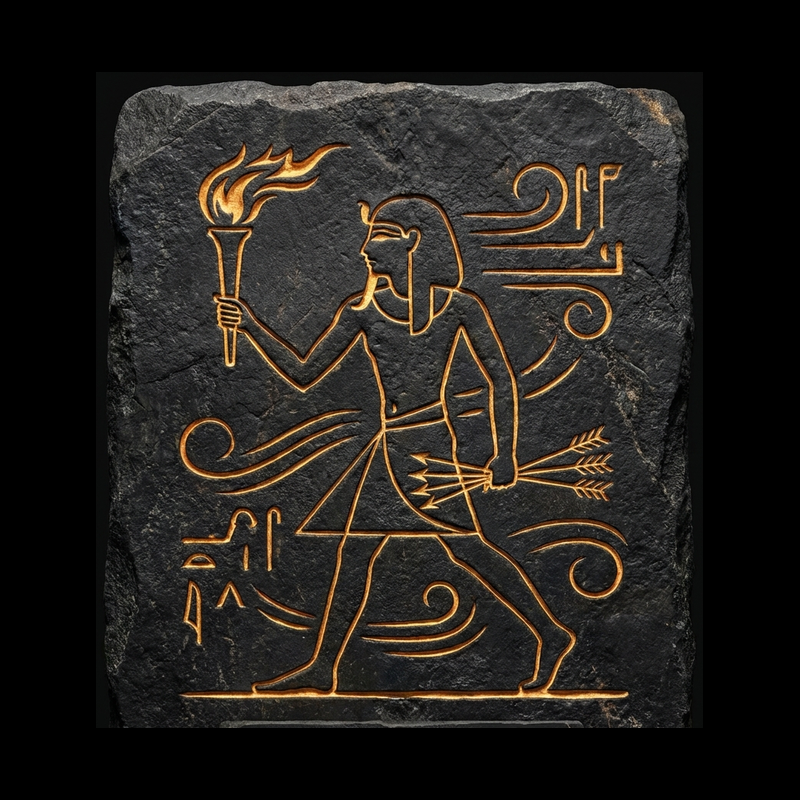
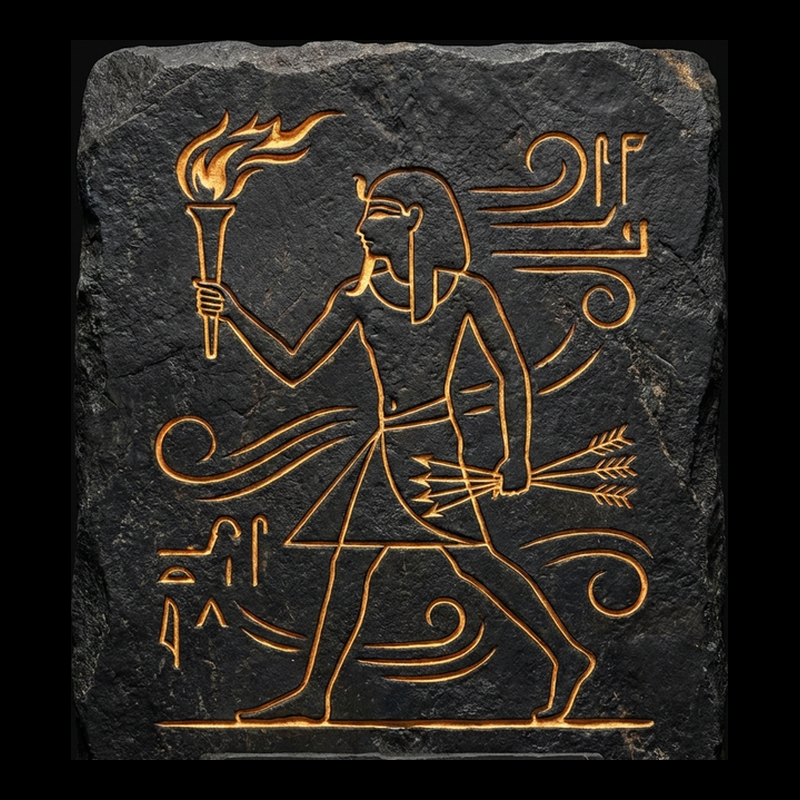
Fix: enlarge sovereignty + call glyphs to match others, remove CSS hack

diff --git a/index.html b/index.html
@@ -233,10 +233,7 @@
     background: #000;
   }
 
-  /* First section icon slightly larger to match visual weight */
-  .prose:first-of-type .inline-glyph .glyph-frame {
-    width: min(360px, 72vw);
-  }
+
 
   .inline-glyph .glyph-frame img {
     width: 100%;
